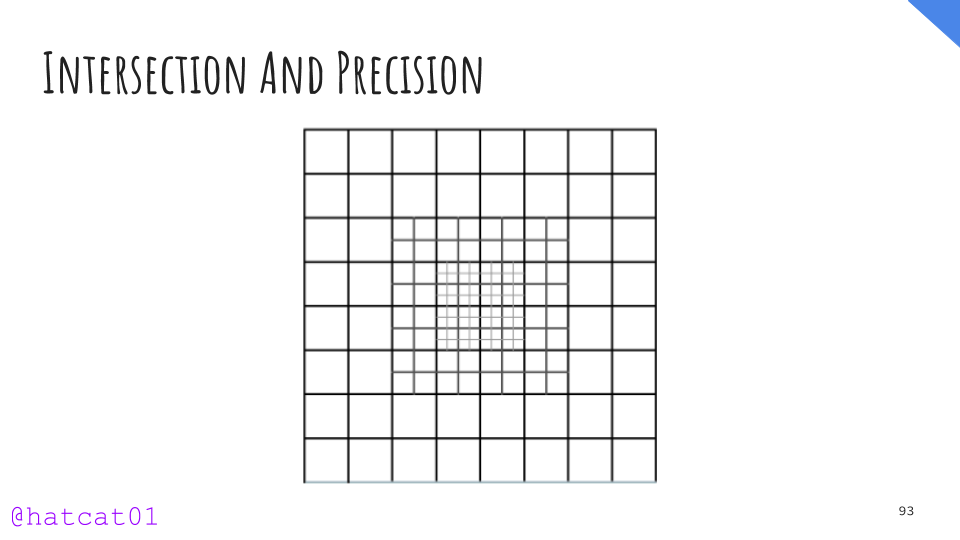
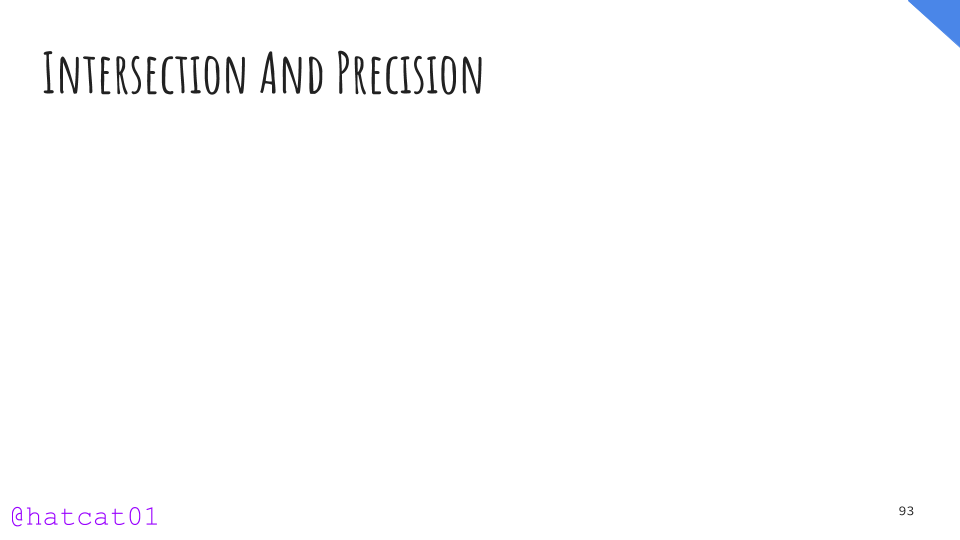
Final slide completed!

Changed region(s): [[0.3125, 0.237, 0.6875, 0.9185]]

diff --git a/StPetersburg/FloatDistribution.cpp b/StPetersburg/FloatDistribution.cpp
@@ -1,0 +1,113 @@
+#include "StPetersburg.h"
+
+#include "Slide.h"
+
+namespace
+{
+	using namespace std::experimental::io2d;
+
+	class float_distribution : public show::slide
+	{
+	public:
+		float_distribution(show::presentation name);
+		bool enter() override;
+		void render(unmanaged_output_surface&) override;
+		bool exit() override;
+	private:
+		show::background_image								m_bg;
+		std::chrono::time_point<std::chrono::steady_clock>	m_entry_point;
+
+	};
+
+	float_distribution::float_distribution(show::presentation p)
+		: show::slide(p)
+		, m_bg(pres::res + "Geometry St Petersburg (93).png")
+	{}
+
+	bool float_distribution::enter()
+	{
+		m_entry_point = std::chrono::steady_clock::now();
+		m_bg.prepare();
+		return true;
+	}
+
+	void float_distribution::render(unmanaged_output_surface& uos)
+	{
+		auto time_in_slide = std::chrono::duration_cast<std::chrono::milliseconds>(std::chrono::steady_clock::now() - m_entry_point).count();
+
+		m_bg.render(uos);
+
+		path_builder major_grid[18];
+		float major_fractions[9] = { std::min(time_in_slide / 1000.f, 1.f),
+									std::min((time_in_slide - 100) / 1000.f, 1.f),
+									std::min((time_in_slide - 200) / 1000.f, 1.f),
+									std::min((time_in_slide - 300) / 1000.f, 1.f),
+									std::min((time_in_slide - 400) / 1000.f, 1.f),
+									std::min((time_in_slide - 500) / 1000.f, 1.f),
+									std::min((time_in_slide - 600) / 1000.f, 1.f),
+									std::min((time_in_slide - 700) / 1000.f, 1.f),
+									std::min((time_in_slide - 800) / 1000.f, 1.f) };
+		for (auto i = 0; i < 9; ++i)
+		{
+			if (major_fractions[i] > 0.f)
+			{
+				major_grid[2 * i].new_figure({ 600.f, i * 90.f + 250.f });
+				major_grid[2 * i].line({ 600.f + major_fractions[i] * 720.f, i * 90.f + 250.f });
+				major_grid[1 + 2 * i].new_figure({ i * 90.f + 600.f, 250.f });
+				major_grid[1 + 2 * i].line({ i * 90.f + 600.f, 250.f + major_fractions[i] * 720.f });
+			}
+		}
+		for (const auto& g1 : major_grid) uos.stroke(brush{ rgba_color::black }, g1, std::nullopt, stroke_props{ 1 });
+
+		path_builder minor_grid[18];
+		float minor_fractions[9] = { std::min((time_in_slide - 200) / 1000.f, 1.f),
+									std::min((time_in_slide - 250) / 1000.f, 1.f),
+									std::min((time_in_slide - 300) / 1000.f, 1.f),
+									std::min((time_in_slide - 350) / 1000.f, 1.f),
+									std::min((time_in_slide - 400) / 1000.f, 1.f),
+									std::min((time_in_slide - 450) / 1000.f, 1.f),
+									std::min((time_in_slide - 500) / 1000.f, 1.f),
+									std::min((time_in_slide - 550) / 1000.f, 1.f),
+									std::min((time_in_slide - 600) / 1000.f, 1.f) };
+		for (auto i = 0; i < 9; ++i)
+		{
+			if (minor_fractions[i] > 0.f)
+			{
+				minor_grid[2 * i].new_figure({ 780.f, i * 45.f + 430.f });
+				minor_grid[2 * i].line({ 780.f + minor_fractions[i] * 360.f, i * 45.f + 430.f });
+				minor_grid[1 + 2 * i].new_figure({ i * 45.f + 780.f, 430.f });
+				minor_grid[1 + 2 * i].line({ i * 45.f + 780.f, 430.f + minor_fractions[i] * 360.f });
+			}
+		}
+		for (const auto& g1 : minor_grid) uos.stroke(brush{ rgba_color::dark_grey }, g1, std::nullopt, stroke_props{ 1 });
+
+		path_builder minimus_grid[18];
+		float minimus_fractions[9] = { std::min((time_in_slide - 300) / 1000.f, 1.f),
+										std::min((time_in_slide - 325) / 1000.f, 1.f),
+										std::min((time_in_slide - 350) / 1000.f, 1.f),
+										std::min((time_in_slide - 375) / 1000.f, 1.f),
+										std::min((time_in_slide - 400) / 1000.f, 1.f),
+										std::min((time_in_slide - 425) / 1000.f, 1.f),
+										std::min((time_in_slide - 450) / 1000.f, 1.f),
+										std::min((time_in_slide - 475) / 1000.f, 1.f),
+										std::min((time_in_slide - 500) / 1000.f, 1.f) };
+		for (auto i = 0; i < 9; ++i)
+		{
+			if (minimus_fractions[i] > 0.f)
+			{
+				minimus_grid[2 * i].new_figure({ 870.f, i * 22.5f + 520.f });
+				minimus_grid[2 * i].line({ 870.f + minimus_fractions[i] * 180.f, i * 22.5f + 520.f });
+				minimus_grid[1 + 2 * i].new_figure({ i * 22.5f + 870.f, 520.f });
+				minimus_grid[1 + 2 * i].line({ i * 22.5f + 870.f, 520.f + minimus_fractions[i] * 180.f });
+			}
+		}
+		for (const auto& g1 : minimus_grid) uos.stroke(brush{ rgba_color::grey }, g1, std::nullopt, stroke_props{ 1 });
+	}
+
+	bool float_distribution::exit()
+	{
+		return true;
+	}
+
+	float_distribution s093{ show::presentation::SLIDE_093 };
+}

diff --git a/StPetersburg/PictureSlide.cpp b/StPetersburg/PictureSlide.cpp
@@ -135,7 +135,7 @@ namespace
 	picture_slide s090{ show::presentation::SLIDE_090, pres::res + "Geometry St Petersburg (90).png" };
 	picture_slide s091{ show::presentation::SLIDE_091, pres::res + "Geometry St Petersburg (91).png" };
 	picture_slide s092{ show::presentation::SLIDE_092, pres::res + "Geometry St Petersburg (92).png" };
-	picture_slide s093{ show::presentation::SLIDE_093, pres::res + "Geometry St Petersburg (93).png" };
+	//picture_slide s093{ show::presentation::SLIDE_093, pres::res + "Geometry St Petersburg (93).png" }; // FloatDistribution
 	picture_slide s094{ show::presentation::SLIDE_094, pres::res + "Geometry St Petersburg (94).png" };
 	picture_slide s095{ show::presentation::SLIDE_095, pres::res + "Geometry St Petersburg (95).png" };
 	picture_slide s096{ show::presentation::SLIDE_096, pres::res + "Geometry St Petersburg (96).png" };
